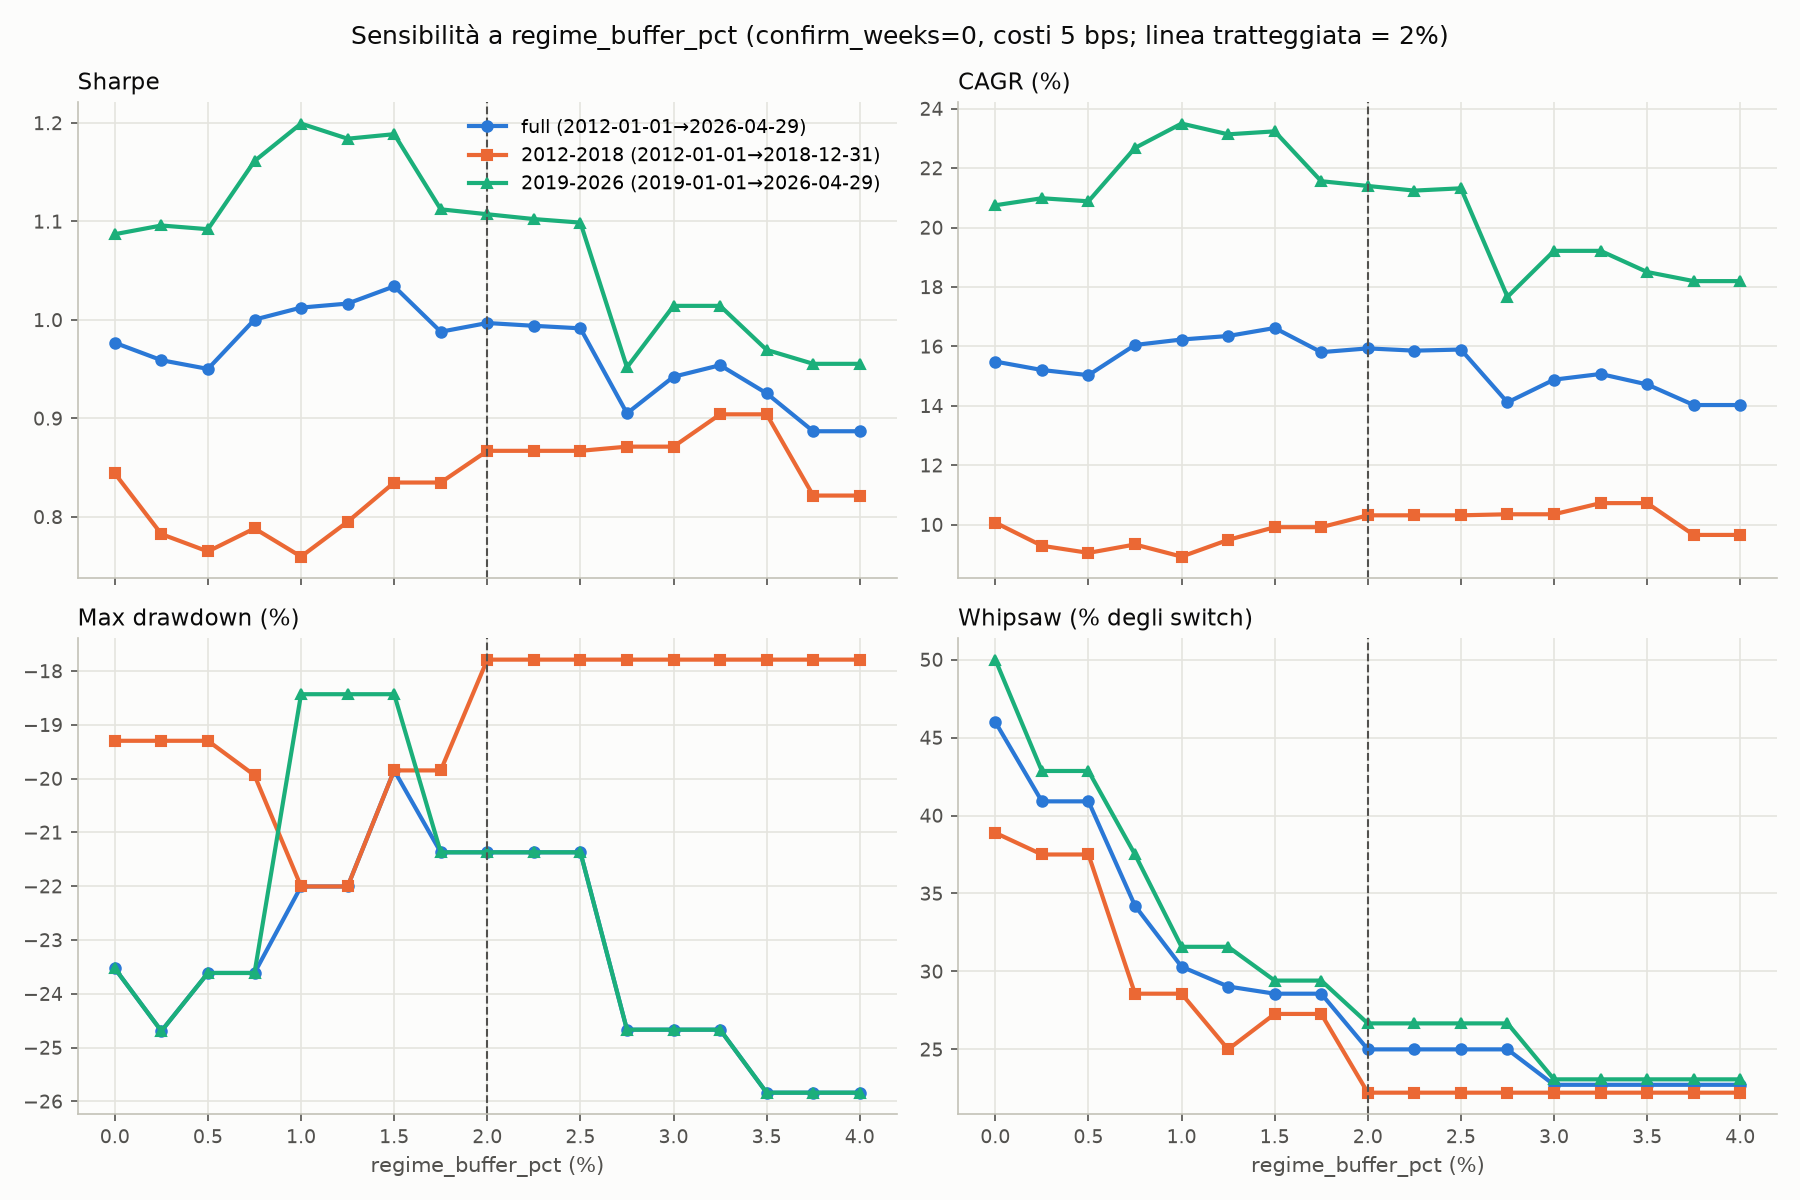
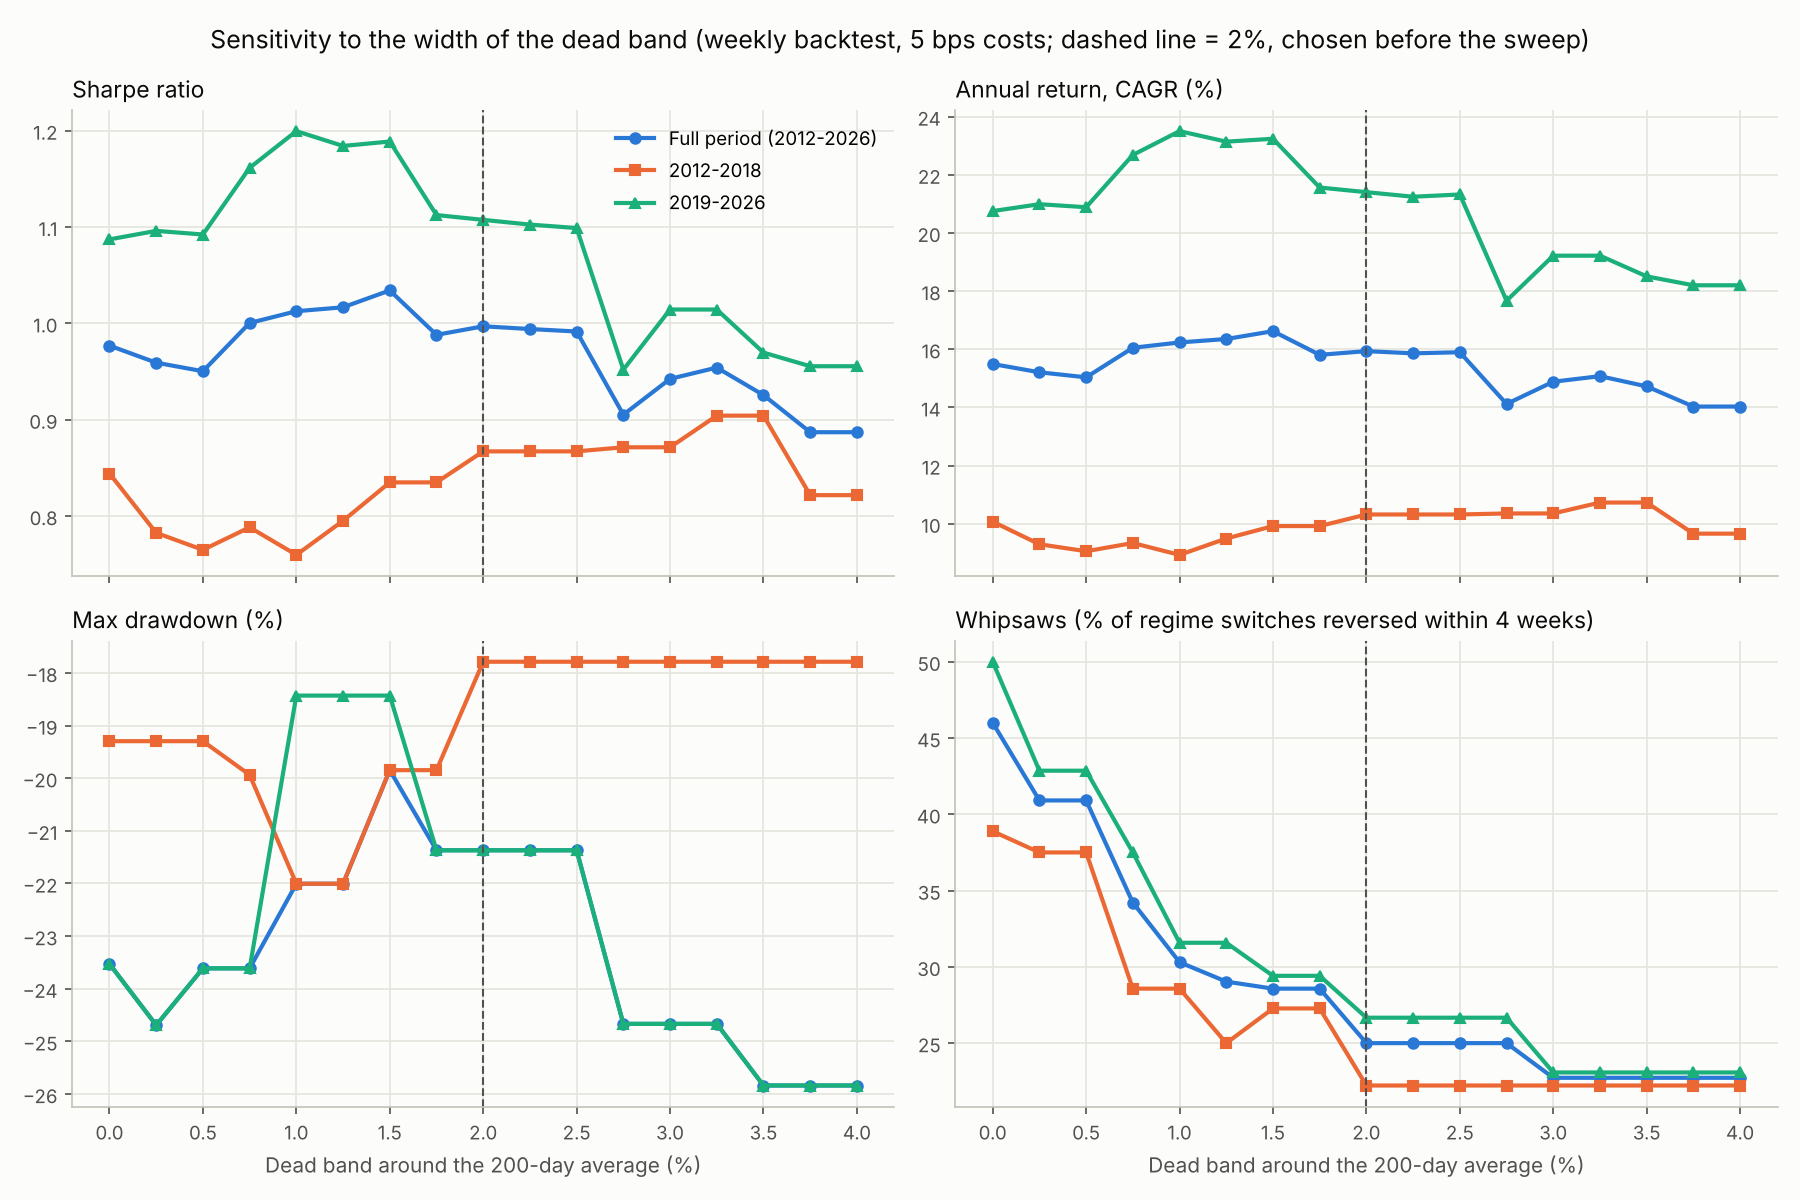
English labels for the sweep chart; add --plot-only

diff --git a/src/buffer_sweep.py b/src/buffer_sweep.py
@@ -190,10 +190,10 @@ def plot(results: dict[str, pd.DataFrame], path: Path) -> None:
     # (codifica secondaria, l'identità non dipende solo dal colore).
     styles = [("#2a78d6", "o"), ("#eb6834", "s"), ("#1baf7a", "^")]
     panels = [
-        ("sharpe", "Sharpe", 1.0),
-        ("cagr", "CAGR (%)", 100.0),
+        ("sharpe", "Sharpe ratio", 1.0),
+        ("cagr", "Annual return, CAGR (%)", 100.0),
         ("max_dd", "Max drawdown (%)", 100.0),
-        ("whipsaw_pct", "Whipsaw (% degli switch)", 100.0),
+        ("whipsaw_pct", "Whipsaws (% of regime switches reversed within 4 weeks)", 100.0),
     ]
     fig, axes = plt.subplots(2, 2, figsize=(12, 8), sharex=True)
     fig.patch.set_facecolor("#fcfcfb")
@@ -211,10 +211,10 @@ def plot(results: dict[str, pd.DataFrame], path: Path) -> None:
             ax.spines[s].set_color("#c3c2b7")
         ax.tick_params(colors="#52514e", labelsize=9)
     for ax in axes[1]:
-        ax.set_xlabel("regime_buffer_pct (%)", color="#52514e")
+        ax.set_xlabel("Dead band around the 200-day average (%)", color="#52514e")
     axes[0, 0].legend(frameon=False, fontsize=9)
-    fig.suptitle("Sensibilità a regime_buffer_pct (confirm_weeks=0, costi 5 bps; "
-                 "linea tratteggiata = 2%)", fontsize=12, color="#0b0b0b")
+    fig.suptitle("Sensitivity to the width of the dead band (weekly backtest, 5 bps costs; "
+                 "dashed line = 2%, chosen before the sweep)", fontsize=12, color="#0b0b0b")
     fig.tight_layout()
     fig.savefig(path, dpi=150, facecolor=fig.get_facecolor())
     plt.close(fig)
@@ -263,7 +263,18 @@ def main() -> None:
     p = argparse.ArgumentParser(description="Sensitivity sweep di regime_buffer_pct.")
     p.add_argument("--end", type=str, default=None,
                    help="Fine dei periodi. Default = end_date della baseline in DB.")
+    p.add_argument("--plot-only", action="store_true",
+                   help="Redraw the chart from the saved CSVs, without re-running any backtest.")
     args = p.parse_args()
+
+    if args.plot_only:
+        files = [("Full period (2012-2026)", "sweep_full.csv"),
+                 ("2012-2018", "sweep_2012_2018.csv"),
+                 ("2019-2026", "sweep_2019_2026.csv")]
+        results = {label: pd.read_csv(OUT_DIR / f) for label, f in files}
+        plot(results, OUT_DIR / "sweep_buffer.png")
+        print(f"Chart redrawn: {OUT_DIR / 'sweep_buffer.png'}")
+        return
 
     base_cfg = StrategyConfig(regime_confirm_weeks=0)
     ref_end = sanity_checks(base_cfg)
